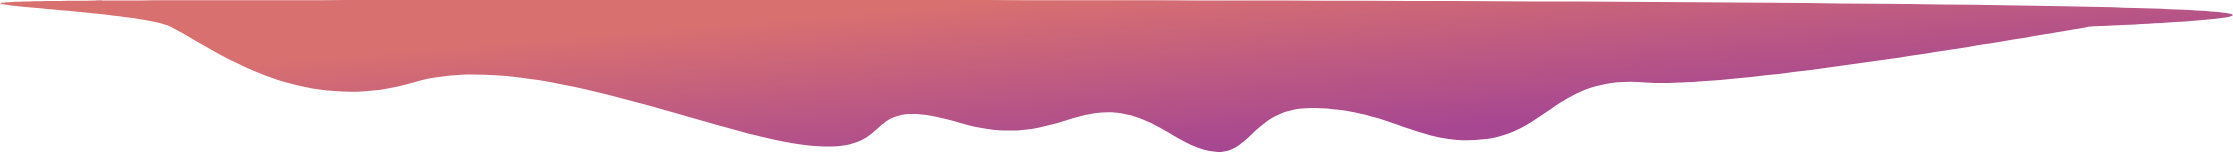
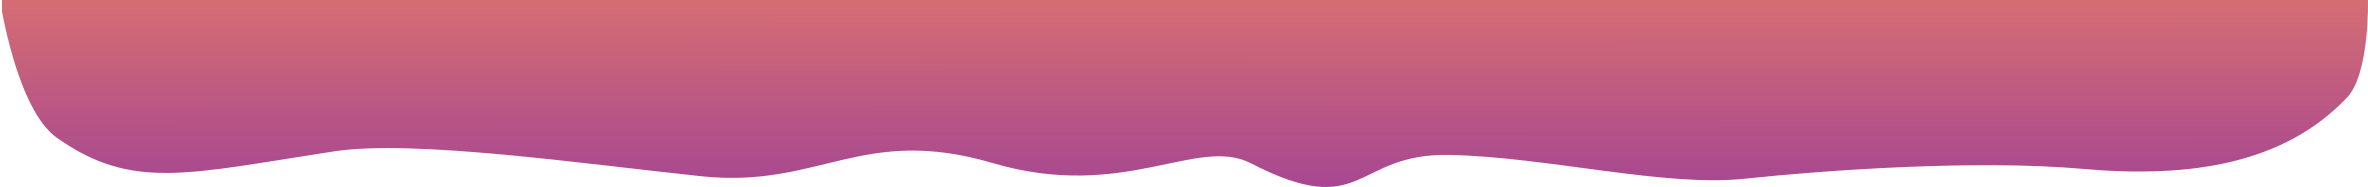
fix title background and minor content improvements

diff --git a/src/components/ContentManager/ContentManager.js b/src/components/ContentManager/ContentManager.js
@@ -74,7 +74,7 @@ class ContentManager extends Component {
     }
 
     getSoftwareDevContent() {
-        const softwareDevContent = "Desarrollo software, en su mayoría como voluntario o comunitario, desde hace más de 12 años. Proximamente, aquí cargaré mi portafolio histórico."; 
+        const softwareDevContent = "Desarrollo software, en su mayoría como voluntario o comunitario, desde hace más de 12 años. En el futuro cargaré aquí mi portafolio histórico."; 
 
         return(
             <div className="softwaredev-content-container">
